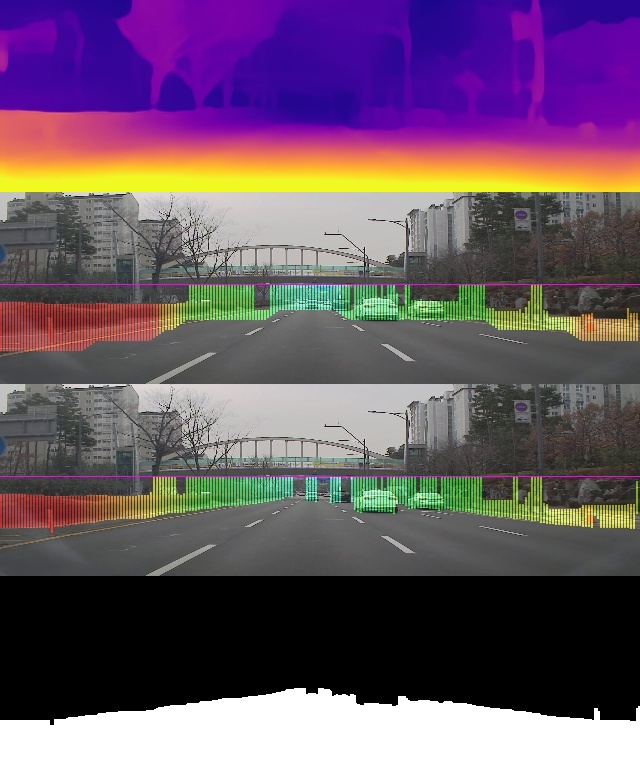
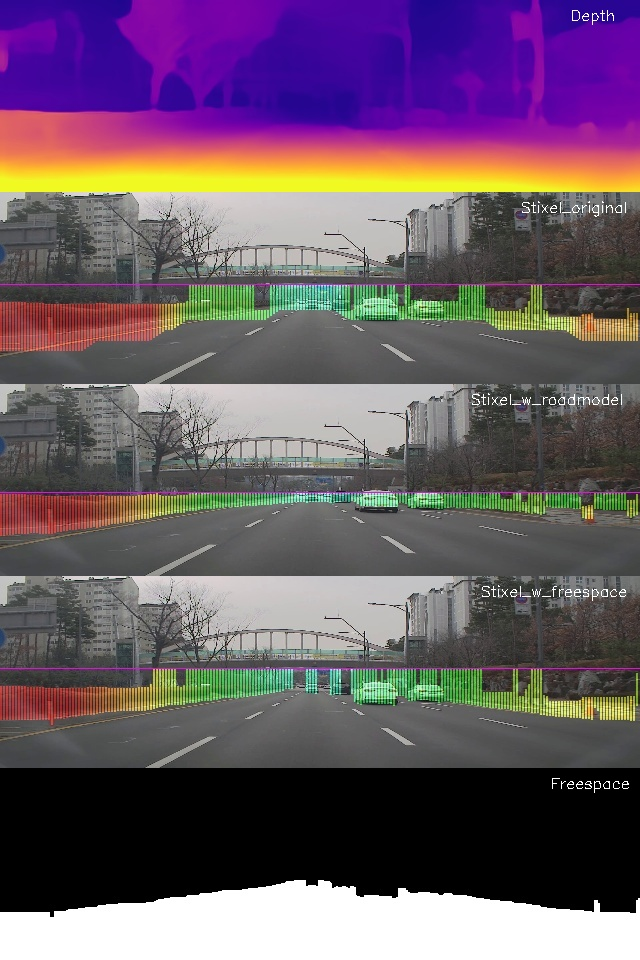
results update & show.py putText

diff --git a/show.py b/show.py
@@ -7,28 +7,38 @@ import utils
 
 
 def main():
-    depth_path = 'Y:/monodepth_results/Monodepth_results_1110/frontview_test/disp_640x192'
-    seg_white_path = 'Y:/monodepth_results/Monodepth_results_1110/frontview_test/seg_white'
-    stixel_ori_path = 'Y:/monodepth_results/Monodepth_results_1110/frontview_test/stixel_results_ori'
-    stixel_free_path = 'Y:/monodepth_results/Monodepth_results_1110/frontview_test/stixel_results_freespace'
-    stixel_3_save_path = 'Y:/monodepth_results/Monodepth_results_1110/frontview_test/stixel_3_results'
-    alpha = 1.0
+    alpha = 1.0 # addweight
+    home_path = 'Y:/monodepth_results/Monodepth_results_1110/frontview_test'
+    depth_path = home_path + os.path.join('/', 'disp_640x192')
+    seg_white_path = home_path + os.path.join('/', 'seg_white')
+    stixel_ori_path = home_path + os.path.join('/', 'stixel_results_ori')
+    stixel_free_path = home_path + os.path.join('/', 'stixel_results_freespace')
+    stixel_freeroad_path = home_path + os.path.join('/', 'stixel_results_real_final')
+    stixel_3_save_path = home_path + os.path.join('/', 'stixel_3_results')
     file_list = utils.read_folder_list(stixel_ori_path)
+    font = cv2.FONT_HERSHEY_SIMPLEX # put text
+    if not utils.check_exist(stixel_3_save_path):
+        utils.make_folder(stixel_3_save_path)
     for i in file_list:
         save_name = utils.change_ext(stixel_3_save_path + os.path.join('/', i), '.jpg')
         depth = cv2.imread(depth_path + os.path.join('/', i), 1)
         seg = cv2.imread(seg_white_path + os.path.join('/', i), 1)
+        stixel_freeroad = cv2.imread(stixel_freeroad_path + os.path.join('/', i), 1)
         stixel_ori = cv2.imread(utils.change_ext(stixel_ori_path + os.path.join('/', i), '.jpg'), 1)
         stixel_free = cv2.imread(utils.change_ext(stixel_free_path + os.path.join('/', i), '.jpg'), 1)
         seg = utils.img_resize(seg, 640, 192)
         stixel_ori = utils.img_resize(stixel_ori, 640, 192)
         stixel_free = utils.img_resize(stixel_free, 640, 192)
-        add_v = np.vstack([depth, stixel_ori, stixel_free, seg])
+        cv2.putText(depth, "Depth", (570, 20), font, 0.5, (255, 255, 255), 1)
+        cv2.putText(stixel_ori, "Stixel_original", (520, 20), font, 0.5, (255, 255, 255), 1)
+        cv2.putText(stixel_freeroad, "Stixel_w_roadmodel", (470, 20), font, 0.5, (255, 255, 255), 1)
+        cv2.putText(stixel_free, "Stixel_w_freespace", (480, 20), font, 0.5, (255, 255, 255), 1)
+        cv2.putText(seg, "Freespace", (550, 20), font, 0.5, (255, 255, 255), 1)
+        add_v = np.vstack([depth, stixel_ori, stixel_freeroad, stixel_free, seg])
         cv2.imshow('show', add_v)
         cv2.imwrite(save_name, add_v)
         cv2.waitKey(1)
     # seg = utils.road_pp_seg(seg)
-
     print('Hello world!')
 
 if __name__ == "__main__":

diff --git a/main.py b/main.py
@@ -9,13 +9,14 @@ import utils
 def main():
     seg_path = 'Y:/monodepth_results/Monodepth_results_1110/frontview_test/seg'
     seg_white = 'Y:/monodepth_results/Monodepth_results_1110/frontview_test/seg_white'
+    seg_free_depth = 'Y:/monodepth_results/Monodepth_results_1110/frontview_test/seg_free_depth'
     img_path = 'Y:/monodepth_results/Monodepth_results_1110/frontview_test/test_images'
     dep_path = 'Y:/monodepth_results/Monodepth_results_1110/frontview_test/disp_640x192'
     lower_save_path = 'Y:/monodepth_results/Monodepth_results_1110/frontview_test/lower_path'
     alpha = 1.0
     file_list = utils.read_folder_list(seg_path)
     for i in file_list:
-        save_name = utils.change_ext(seg_white + os.path.join('/', i), '.jpg')
+        save_name = utils.change_ext(seg_free_depth + os.path.join('/', i), '.jpg')
         seg = cv2.imread(seg_path + os.path.join('/', i), 0)
         img = cv2.imread(utils.change_ext(img_path + os.path.join('/', i), '.jpg'), 0)
         dep = cv2.imread(utils.change_ext(dep_path + os.path.join('/', i), '.jpg'), 0)
@@ -25,9 +26,10 @@ def main():
         # utils.write_csv(lower, lower_save_path + os.path.join('/', i))
         dep = utils.img_resize(dep, 640, 192)
         seg = utils.showing_seg(seg)
+        dep_free = utils.depth_to_freespace(seg, dep)
         dst = cv2.addWeighted(seg, alpha, dep, (1-alpha), 0)
-        cv2.imshow('show', dst)
-        cv2.imwrite(save_name, dst)
+        cv2.imshow('show', dep_free)
+        cv2.imwrite(save_name, dep_free)
         cv2.waitKey(1)
     # seg = utils.road_pp_seg(seg)
 

diff --git a/utils.py b/utils.py
@@ -82,6 +82,19 @@ def showing_seg(seg):
     return seg
 
 
+def depth_to_freespace(seg, dep):
+    height, width = seg.shape
+    for w in range(0, width):
+        for h in range(0, height):
+            if seg[h][w] == 0:
+                seg[h][w] = 0
+                pass
+            elif seg[h][w] == 255:
+                seg[h][w] = dep[h][w]
+                pass
+    return seg
+
+
 def change_ext(path, ext):
     path, ext_b = os.path.splitext(path)
     return path + ext
